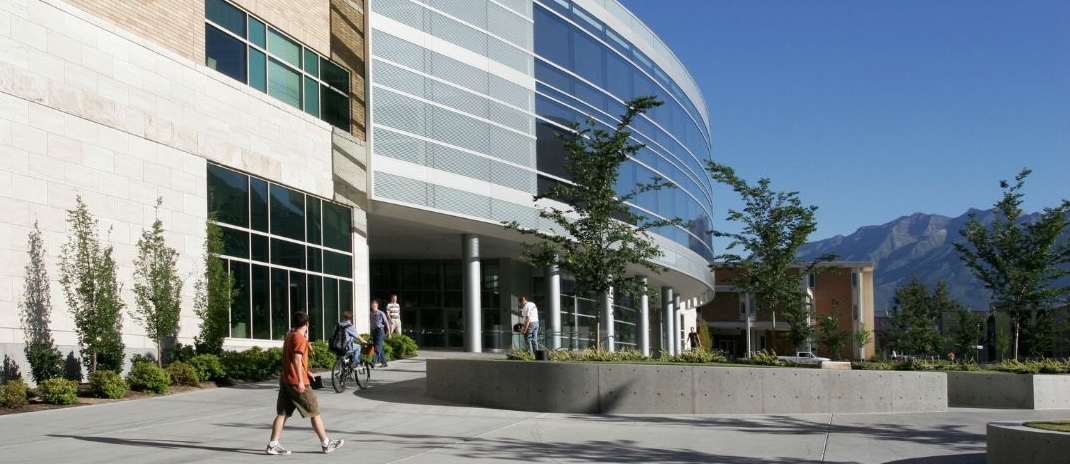
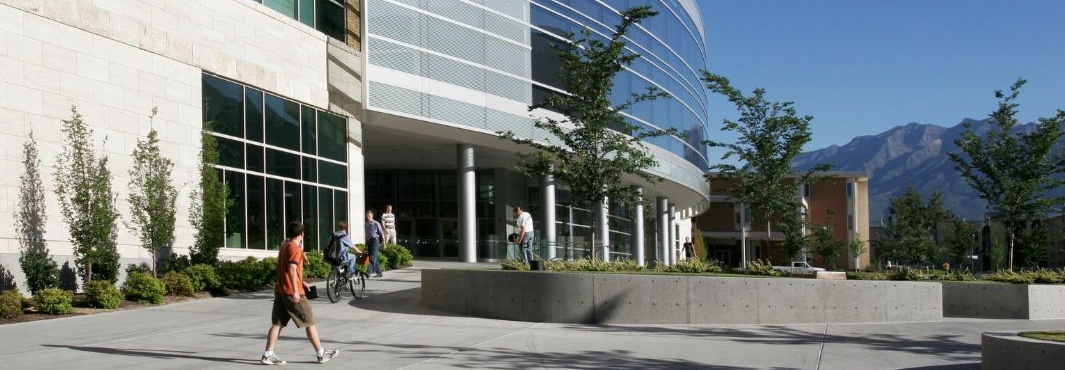
gjort puffar på startsida responsiva och uppdaterat vissa delar av utseendet på sidan

diff --git a/src/app/home/home.component.scss b/src/app/home/home.component.scss
@@ -1,19 +1,60 @@
-img {
+.campus {
     width: 100%;
 	height: auto;
 }
+
 h1 {
     font-weight: 500;
     color:  #93CCBE;
 }
 .small {
-    width: 30%;
+    width: 70%;
   
 }
-.puff {
-text-align: center;
-}
-
+.box1, .box2, .box3, .box4 {
+    margin-bottom: 20px; /* Marginal mellan boxarna */
+  }
+  
+  /* Styla bilderna */
+  .box1 img, .box2 img, .box3 img, .box4 img {
+    display: block;
+    margin: 0 auto; /* Centrera bilden */
+  }
+  
+  /* Styla länkarna */
+  .puff {
+    display: inline-block; /* Gör länken block för att kunna centrera texten under bilden */
+    text-decoration: none; /* Ta bort understrykningen */
+    color: inherit; /* Behåll textfärgen */
+  }
+  
+  .puff span {
+    display: block; /* Gör texten block för att hamna under bilden */
+    margin-top: 10px; /* Avstånd mellan bild och text */
+  }
+  .boxes {
+    display: flex;
+    flex-wrap: wrap;
+    justify-content: center; /* Centrera boxarna horisontellt */
+  }
+  
+  .box2, .box3, .box4 {
+    flex: 1 1 30%; /* Flexibla boxar som tar upp 30% av bredden */
+    box-sizing: border-box; /* Inkludera padding och border i boxens totala bredd */
+    margin: 10px;
+  }
+  
+  /* Mobil layout */
+  @media (max-width: 600px) {
+    .boxes {
+      flex-direction: column; /* Lägg boxarna i en kolumn */
+    }
+    .box2, .box3, .box4 {
+      flex: 1 1 100%; /* Boxarna tar upp hela bredden */
+      margin: 0;
+      margin-bottom: 20px; /* Lägg till marginal mellan boxarna på mobil */
+    }
+  }
 a:link {
 	color: #000000;
 	text-decoration: none;
@@ -27,19 +68,4 @@ a:link {
 	color: #93CCBE;
 	}
 
-    #box1 {
-        grid-area: 1/1/5/5;
     
-      }
-    
-      #box2 {
-        grid-area: 1/1/2/5;
-      }
-    
-      #box3 {
-        grid-area: 2/1/3/5;
-      }
-    
-      #box4 {
-        grid-area: 3/3/4/5;
-      }

diff --git a/src/app/home/home.component.html b/src/app/home/home.component.html
@@ -1,7 +1,24 @@
 <div class="box1">
-    <img [src] = "campus" class = "campus" alt="header">
+    <img [src]="campus" class="campus" alt="header">
   </div>
-<h1>Välkommen till Ditt Universitet!</h1>
-<div class="box2">  <a href="" class="puff"><img [src] = "students" class = "small" alt="glada studenter">Ny student? <br> Här hittar du nödvändig information inför skolstart.</a></div>
-<div class="box3"> <a href="" class="puff"><img [src] = "gym" class = "small" alt="två killar som stretchar">Nyhet <br> Nytt utegym direkt i anslutning till cmapus.</a></div>
-<div class="box4"> <a href="" class="puff"><img [src] = "books" class = "small" alt="böcker">Biblioteket <br> Din bästa vän som student, här kan du få hjälp med mer än att hitta böcker.</a></div>
+  <h1>Välkommen till Ditt Universitet!</h1>
+  <div class="boxes">
+  <div class="box2">
+    <a href="" class="puff">
+      <img [src]="students" class="small" alt="glada studenter">
+      <span>Ny student? <br> Här hittar du nödvändig information inför skolstart.</span>
+    </a>
+  </div>
+  <div class="box3">
+    <a href="" class="puff">
+      <img [src]="gym" class="small" alt="två killar som stretchar">
+      <span>Nyhet <br> Nytt utegym direkt i anslutning till campus.</span>
+    </a>
+  </div>
+  <div class="box4">
+    <a href="" class="puff">
+      <img [src]="books" class="small" alt="böcker">
+      <span>Biblioteket <br> Din bästa vän som student, här kan du få hjälp med mer än att bara hitta böcker.</span>
+    </a>
+  </div>
+  </div>

diff --git a/src/app/courses/courses.component.scss b/src/app/courses/courses.component.scss
@@ -1,12 +1,9 @@
 
-  
-  th.mat-sort-header-sorted {
-    color: black;
-  }
-
   #filter {
-    max-width: 100%;
+    max-width: 500px;
+    height: 40px;
     width: 100vw; 
+    margin:  0  0 20px 20px;
 }
 .courseCodeHeader, .courseCodeCell,
 .courseNameHeader, .courseNameCell,

diff --git a/src/app/app.component.scss b/src/app/app.component.scss
@@ -1,7 +1,7 @@
 .container {
     width: 98%;
     max-width: 1600px;
-    margin: 20px auto;
-        /*--kolumnerna är 25% styck--*/
-        grid-template-columns: 25% 25% 25% 25%;
+    margin: 20px auto 130px auto;
+    padding: 0 0 130px 0;
+    text-align: center;
 }

diff --git a/src/app/footer/footer.component.scss b/src/app/footer/footer.component.scss
@@ -1,12 +1,12 @@
 footer {
     text-align: center;
-	bottom: 0;
-	left: 0;
 	width: 100%;
     height: auto;
 	border: 2px solid #93CCBE;
 	background-color: #FDEADF;
-    position:relative;
+    position: fixed;
+  left: 0;
+  bottom: 0;
 }
 
 li {
